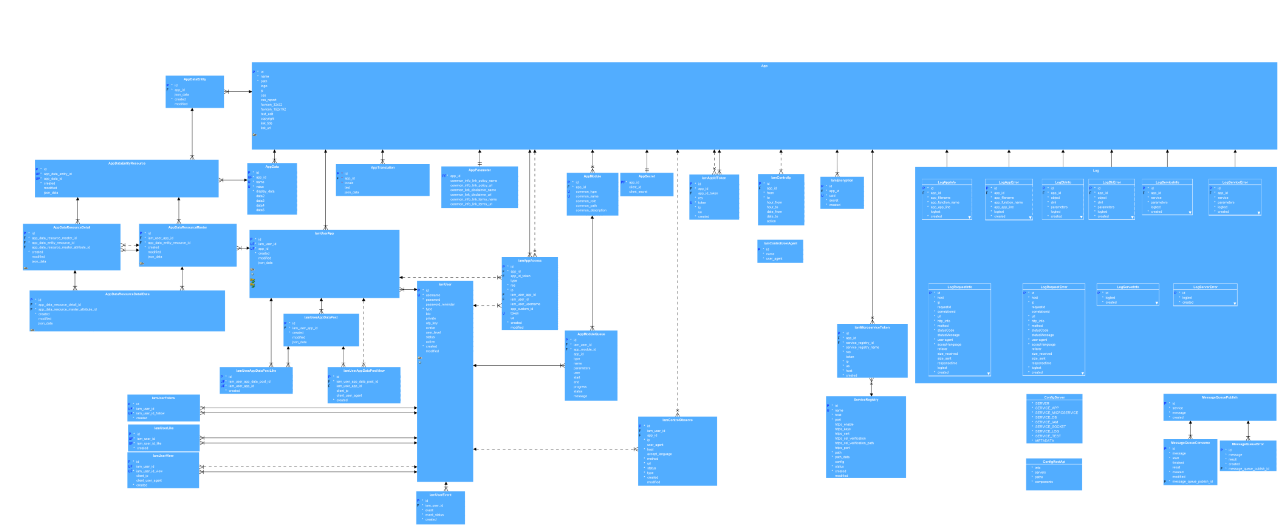
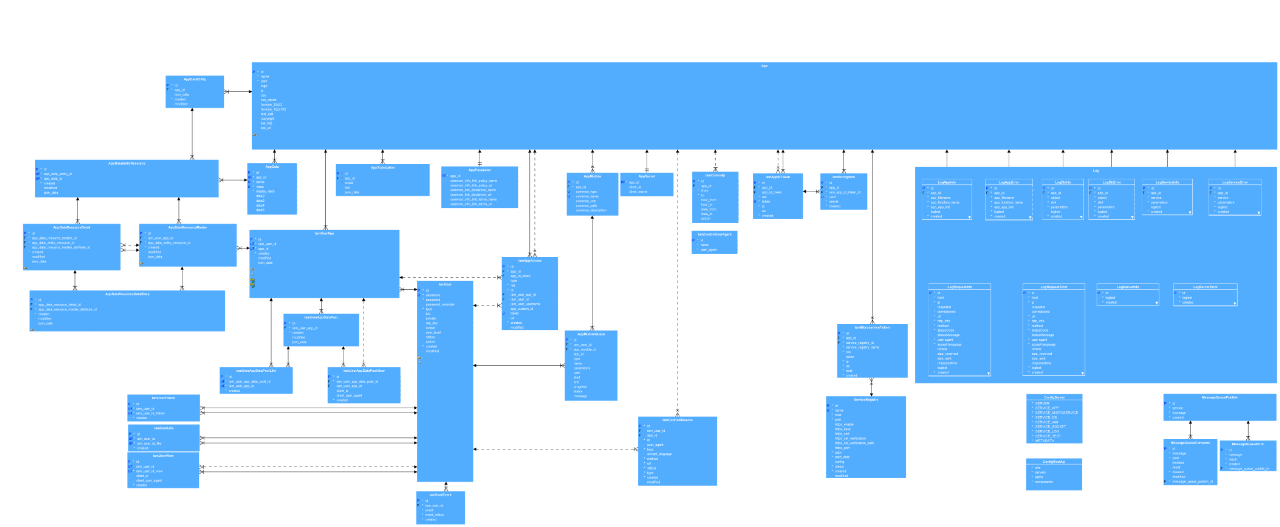
AP-53 adds iam_app_id_token_id FK in IamEncryption, removes commonWindowFromBase64 not used in common_app.js, adds IamEncryption.js with post and get

Changed region(s): [[0.5312, 0.3036, 0.6875, 0.5161]]

diff --git a/server/db/IamEncryption.js b/server/db/IamEncryption.js
@@ -1,0 +1,58 @@
+/** @module server/db/IamEncryption */
+
+/**
+ * @import {server_server_response,server_db_common_result_insert, server_db_table_IamEncryption} from '../types.js'
+ */
+
+const ORM = await import('./ORM.js');
+
+/**
+ * @name get
+ * @description Get
+ * @function
+ * @param {{app_id:number,
+ *          resource_id:number|null,
+ *          data:{data_app_id:number|null}}} parameters
+ * @returns {server_server_response & {result?:server_db_table_IamEncryption[] }}
+ */
+const get = parameters =>{
+    const result = ORM.getObject(parameters.app_id, 'IamEncryption',parameters.resource_id, parameters.data.data_app_id);
+    if (result.rows.length>0)
+        return {result:result.rows, type:'JSON'};
+    else
+        return ORM.getError(parameters.app_id, 404);
+};
+/**
+ * @name post
+ * @description Add record
+ * @function
+ * @param {number} app_id 
+ * @param {server_db_table_IamEncryption} data
+ * @returns {Promise.<server_server_response & {result?:server_db_common_result_insert }>}
+ */
+const post = async (app_id, data) => {
+    //check required attributes
+    if (app_id!=null &&
+        data.app_id != null &&
+        data.uuid != null &&
+        data.secret != null){
+        /**@type{server_db_table_IamEncryption} */
+        const data_new = {};
+        data_new.id = Date.now();
+        data_new.app_id = data.app_id;
+        data_new.uuid = data.uuid;
+        data_new.secret = data.secret;
+        data_new.iam_app_id_token_id = data.iam_app_id_token_id;
+        data_new.created = new Date().toISOString();
+        return ORM.Execute({app_id:app_id, dml:'POST', object:'IamEncryption', post:{data:data_new}}).then((result)=>{
+            if (result.affectedRows>0)
+                return {result:result, type:'JSON'};
+            else
+                return ORM.getError(app_id, 404);
+        });
+    }
+    else
+        return ORM.getError(app_id, 400);
+};
+
+export {get, post};

diff --git a/apps/common/src/component/common_app.js b/apps/common/src/component/common_app.js
@@ -24,15 +24,6 @@ const template = props =>`  <!DOCTYPE html>
                                                         'Connection': 'keep-alive',
                                                         'app-id-token': 'Bearer ${props.idToken}'}
                                         }).then(socket=>{
-                                            const commonWindowFromBase64 = str => {
-                                                const binary_string = atob(str);
-                                                const len = binary_string.length;
-                                                const bytes = new Uint8Array(len);
-                                                for (let i = 0; i < len; i++) {
-                                                    bytes[i] = binary_string.charCodeAt(i);
-                                                }
-                                                return new TextDecoder('utf-8').decode(bytes);
-                                            };
                                             const getMessage = BFFmessage =>{
                                                 const messageDecoded = atob(BFFmessage);
                                                 return { broadcast_type:JSON.parse(messageDecoded).broadcast_type,

diff --git a/server/types.js b/server/types.js
@@ -391,6 +391,8 @@
  * @description DB TABLE IamEncryption
  * @memberof dbObjects
  * @typedef {{  id:number,
+ *              app_id:number,
+ *              iam_app_id_token_id:number,
  *              uuid:string, 
  *              secret:string,
  *              created:string}} server_db_table_IamEncryption
